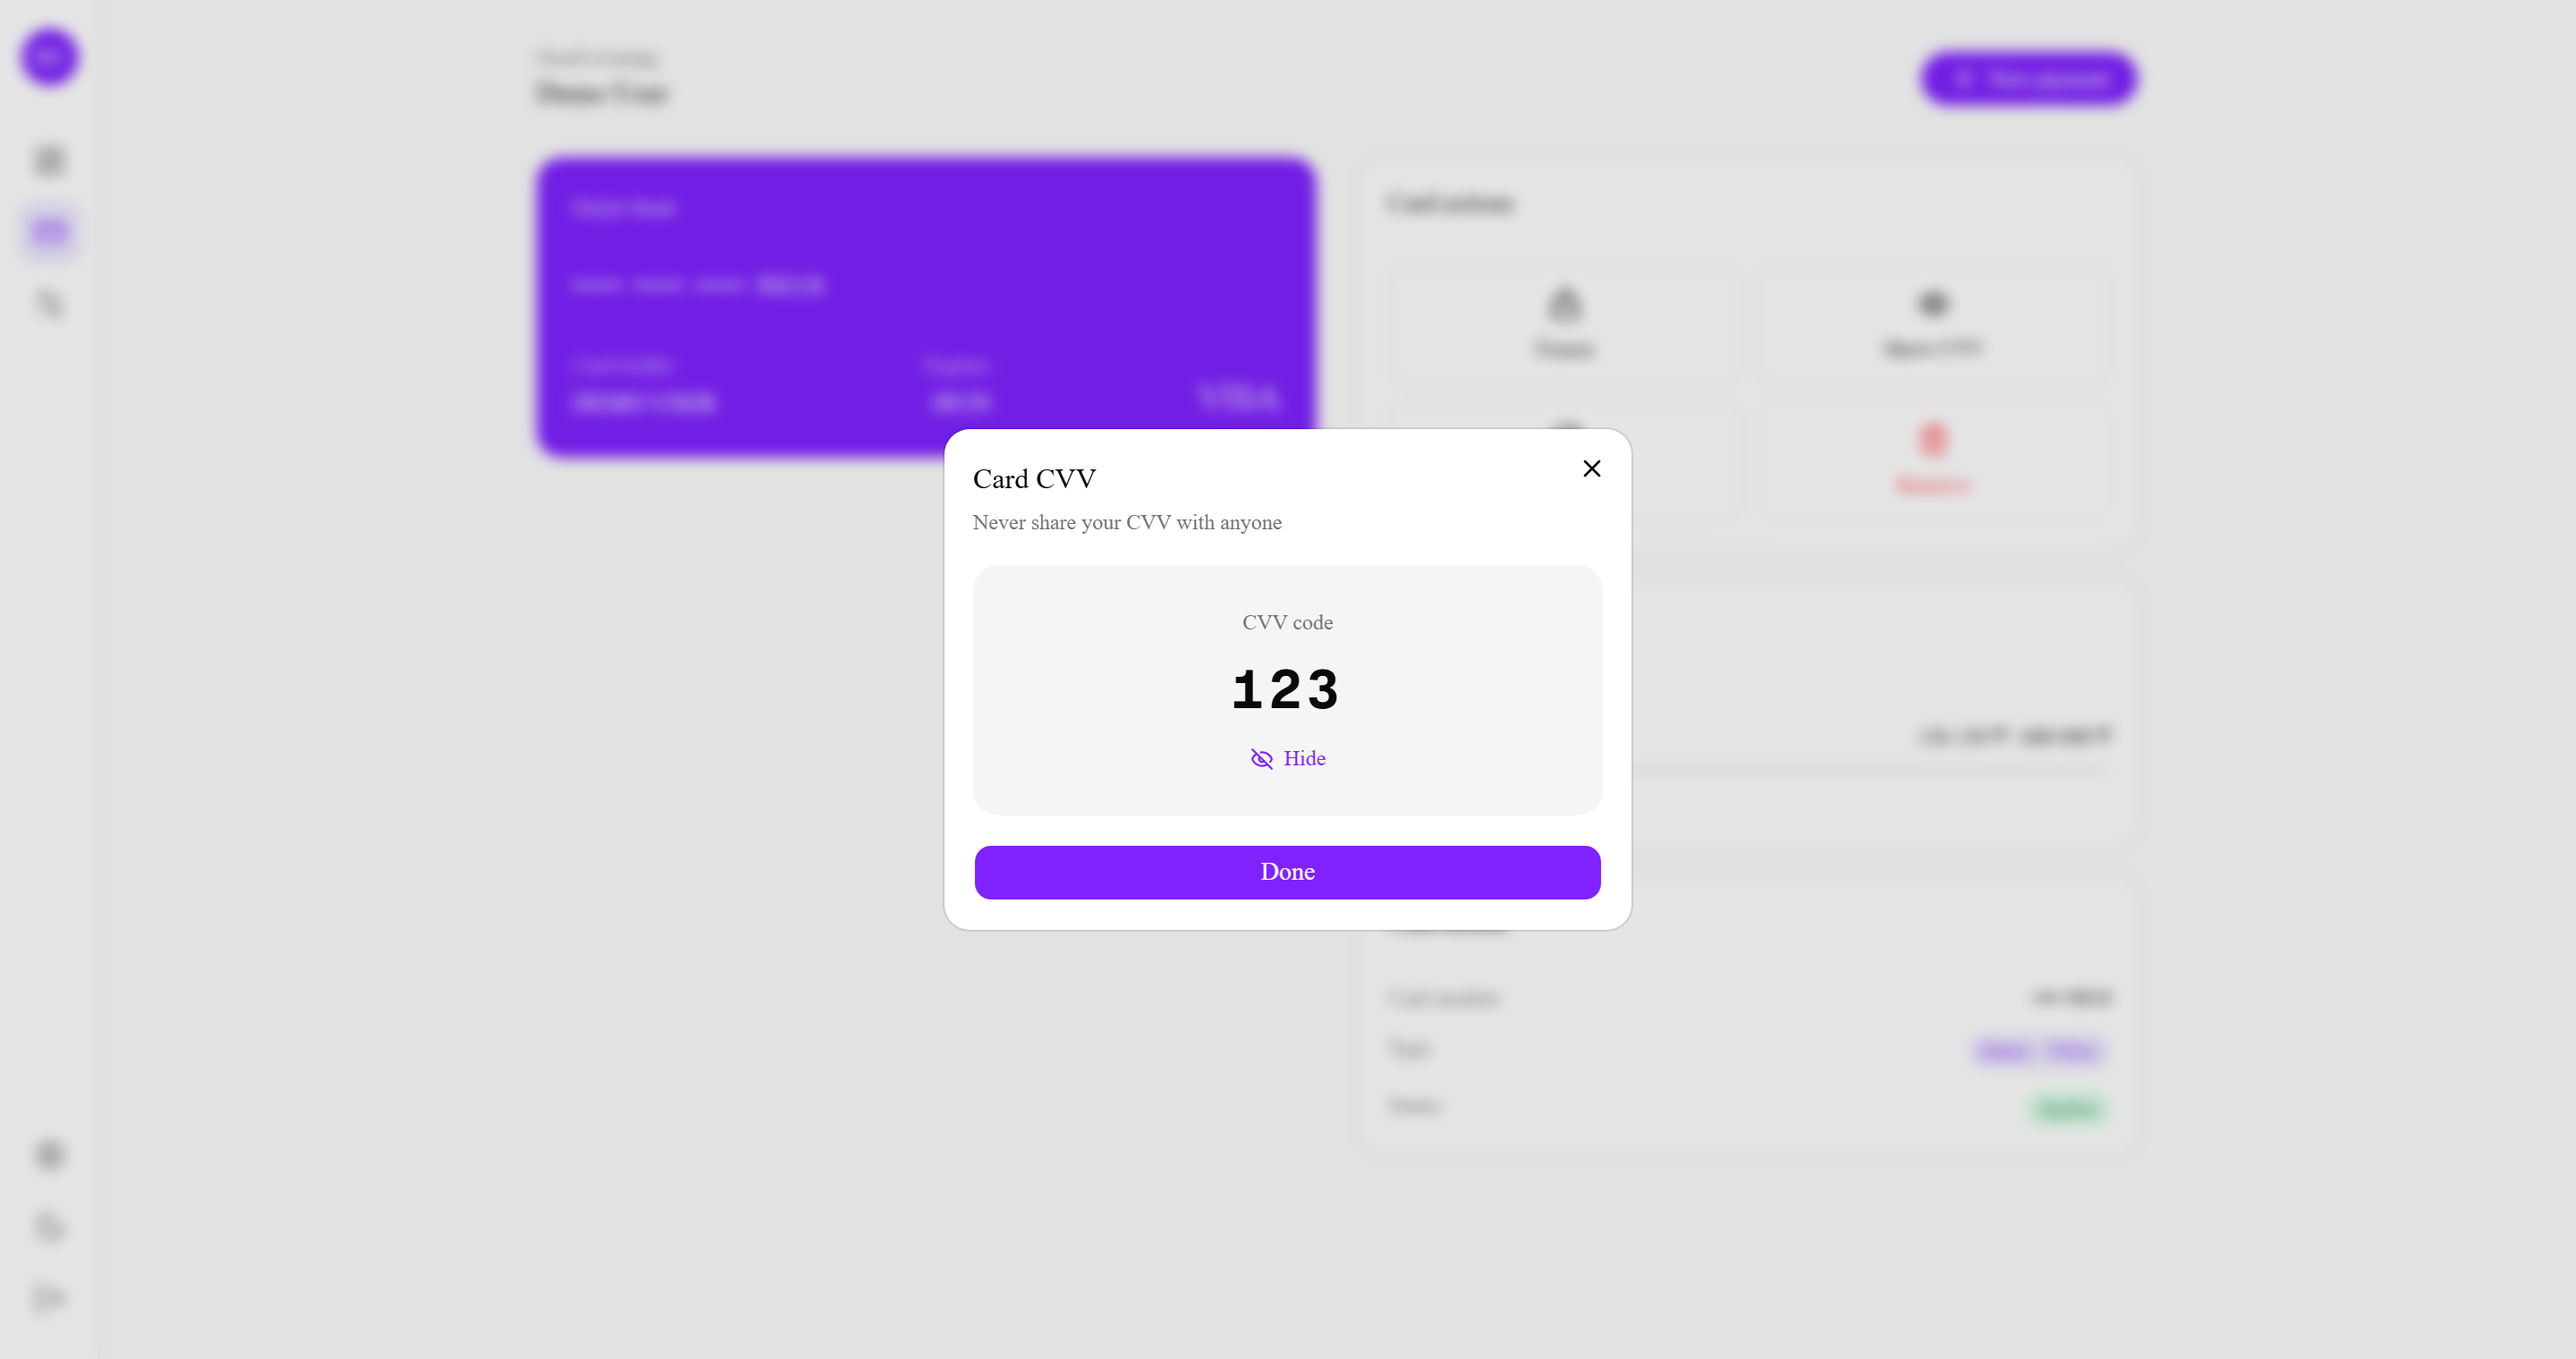
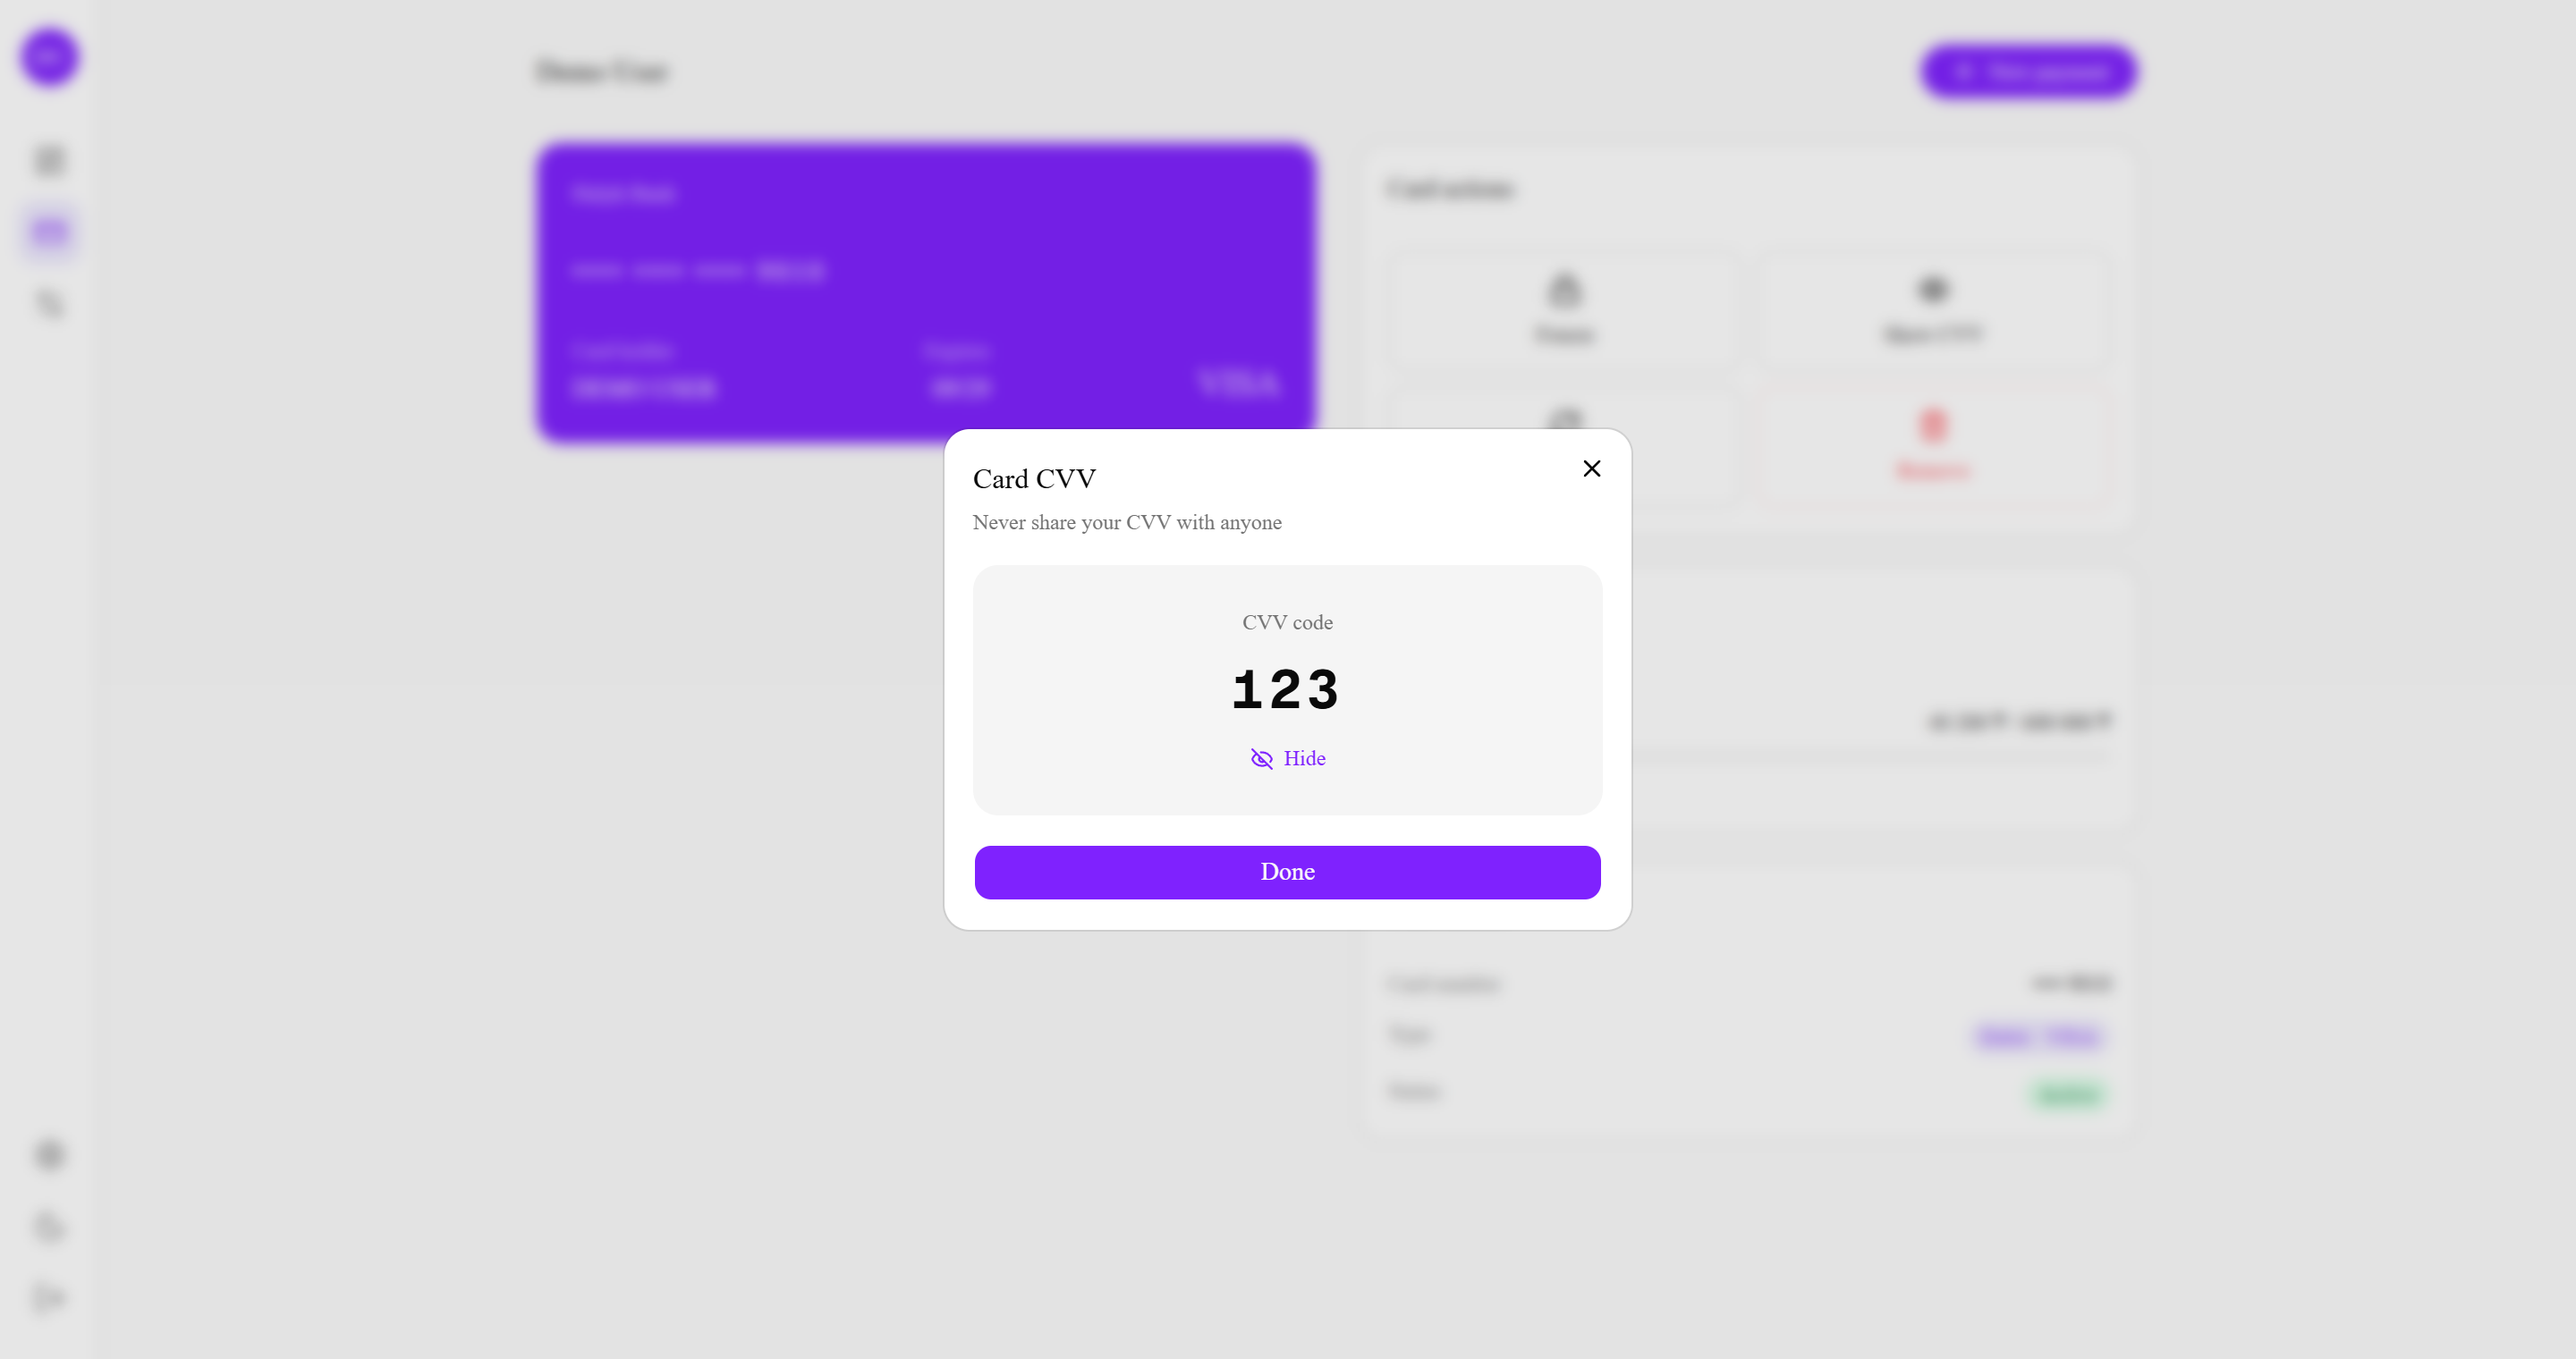
docs: reshoot the screenshots after the dashboard cleanup and reseed
The set still showed the quick actions panel and the greeting, and its
figures came from the run-day seed. All ten are retaken from the live
demo against the calendar-anchored seed, at the same 1440px viewport
and 2x scale as before, in an Almaty browser.

qr.png is left as it was: generating a code inserts a real pending
transaction into the shared demo account, and the old layout behind
the dialog is blurred past recognition.

The budget paragraph quoted the old shot's numbers; it now quotes the
new one's and says what the trends compare against.

diff --git a/README.md b/README.md
@@ -31,7 +31,7 @@ The history itself comes from [`supabase/seed/demo.sql`](supabase/seed/demo.sql)
 
 Balance, month-to-date income and expenses, and pending authorizations across the top; a spending chart, the monthly budget against the card's limit, and the ledger below. Every figure here is derived — the stat cards, the chart buckets, and the budget projection are computed from the transaction list by pure functions in [`stats.ts`](src/entities/transaction/model/stats.ts) and [`budget.ts`](src/widgets/budget-status/lib/budget.ts), with the clock and the viewer's time zone passed in so they can be unit-tested without React.
 
-The budget reads `Trending over` here because it extrapolates the month from the daily average rather than waiting for the limit to be crossed — 270 730 ₸ spent by the tenth projects to 812 190 ₸ against a 600 000 ₸ limit.
+The budget extrapolates the month from the daily average rather than waiting for the limit to be crossed: 48 200 ₸ spent by the fourth projects to 361 500 ₸ against a 600 000 ₸ limit, so it reads `On track`. A pace that projects past the limit switches it to `Trending over` while there is still money left, which is the point of a warning. The trends beside it compare this month so far with the same days of the last one — November 1–4 against October 1–4, not against all of October.
 
 ![FinPay dashboard](docs/screenshots/dashboard.png)
 
